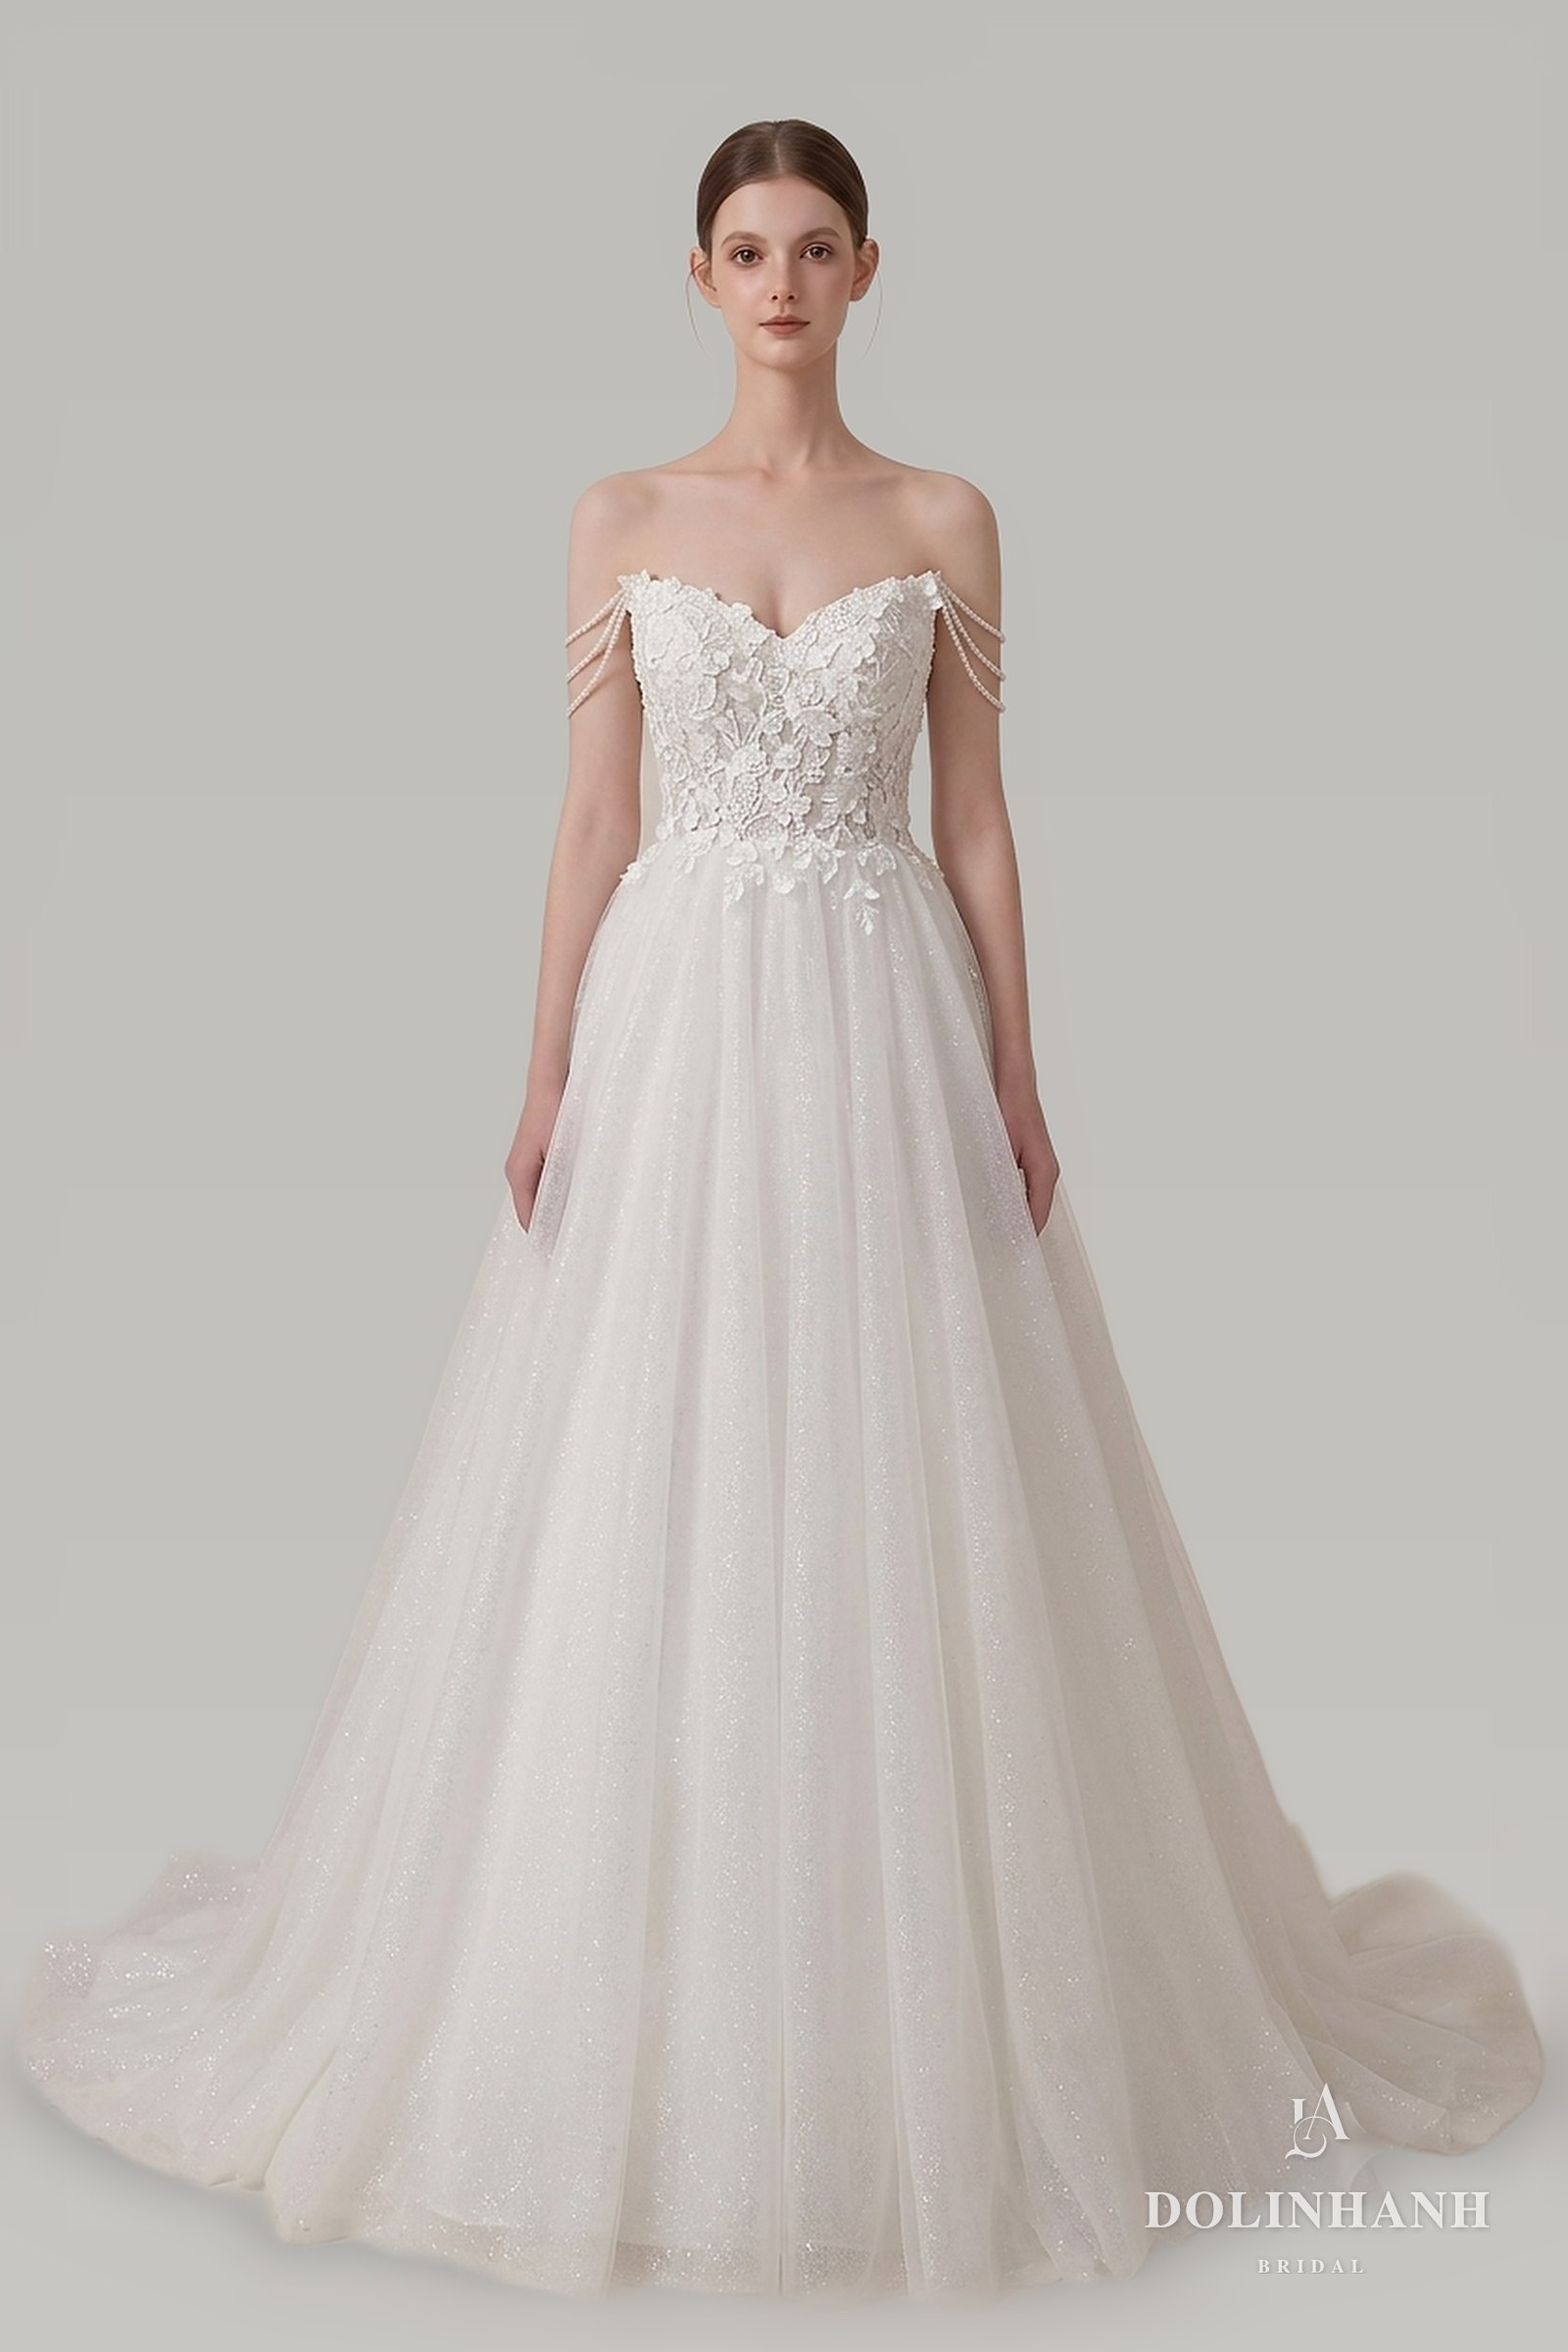
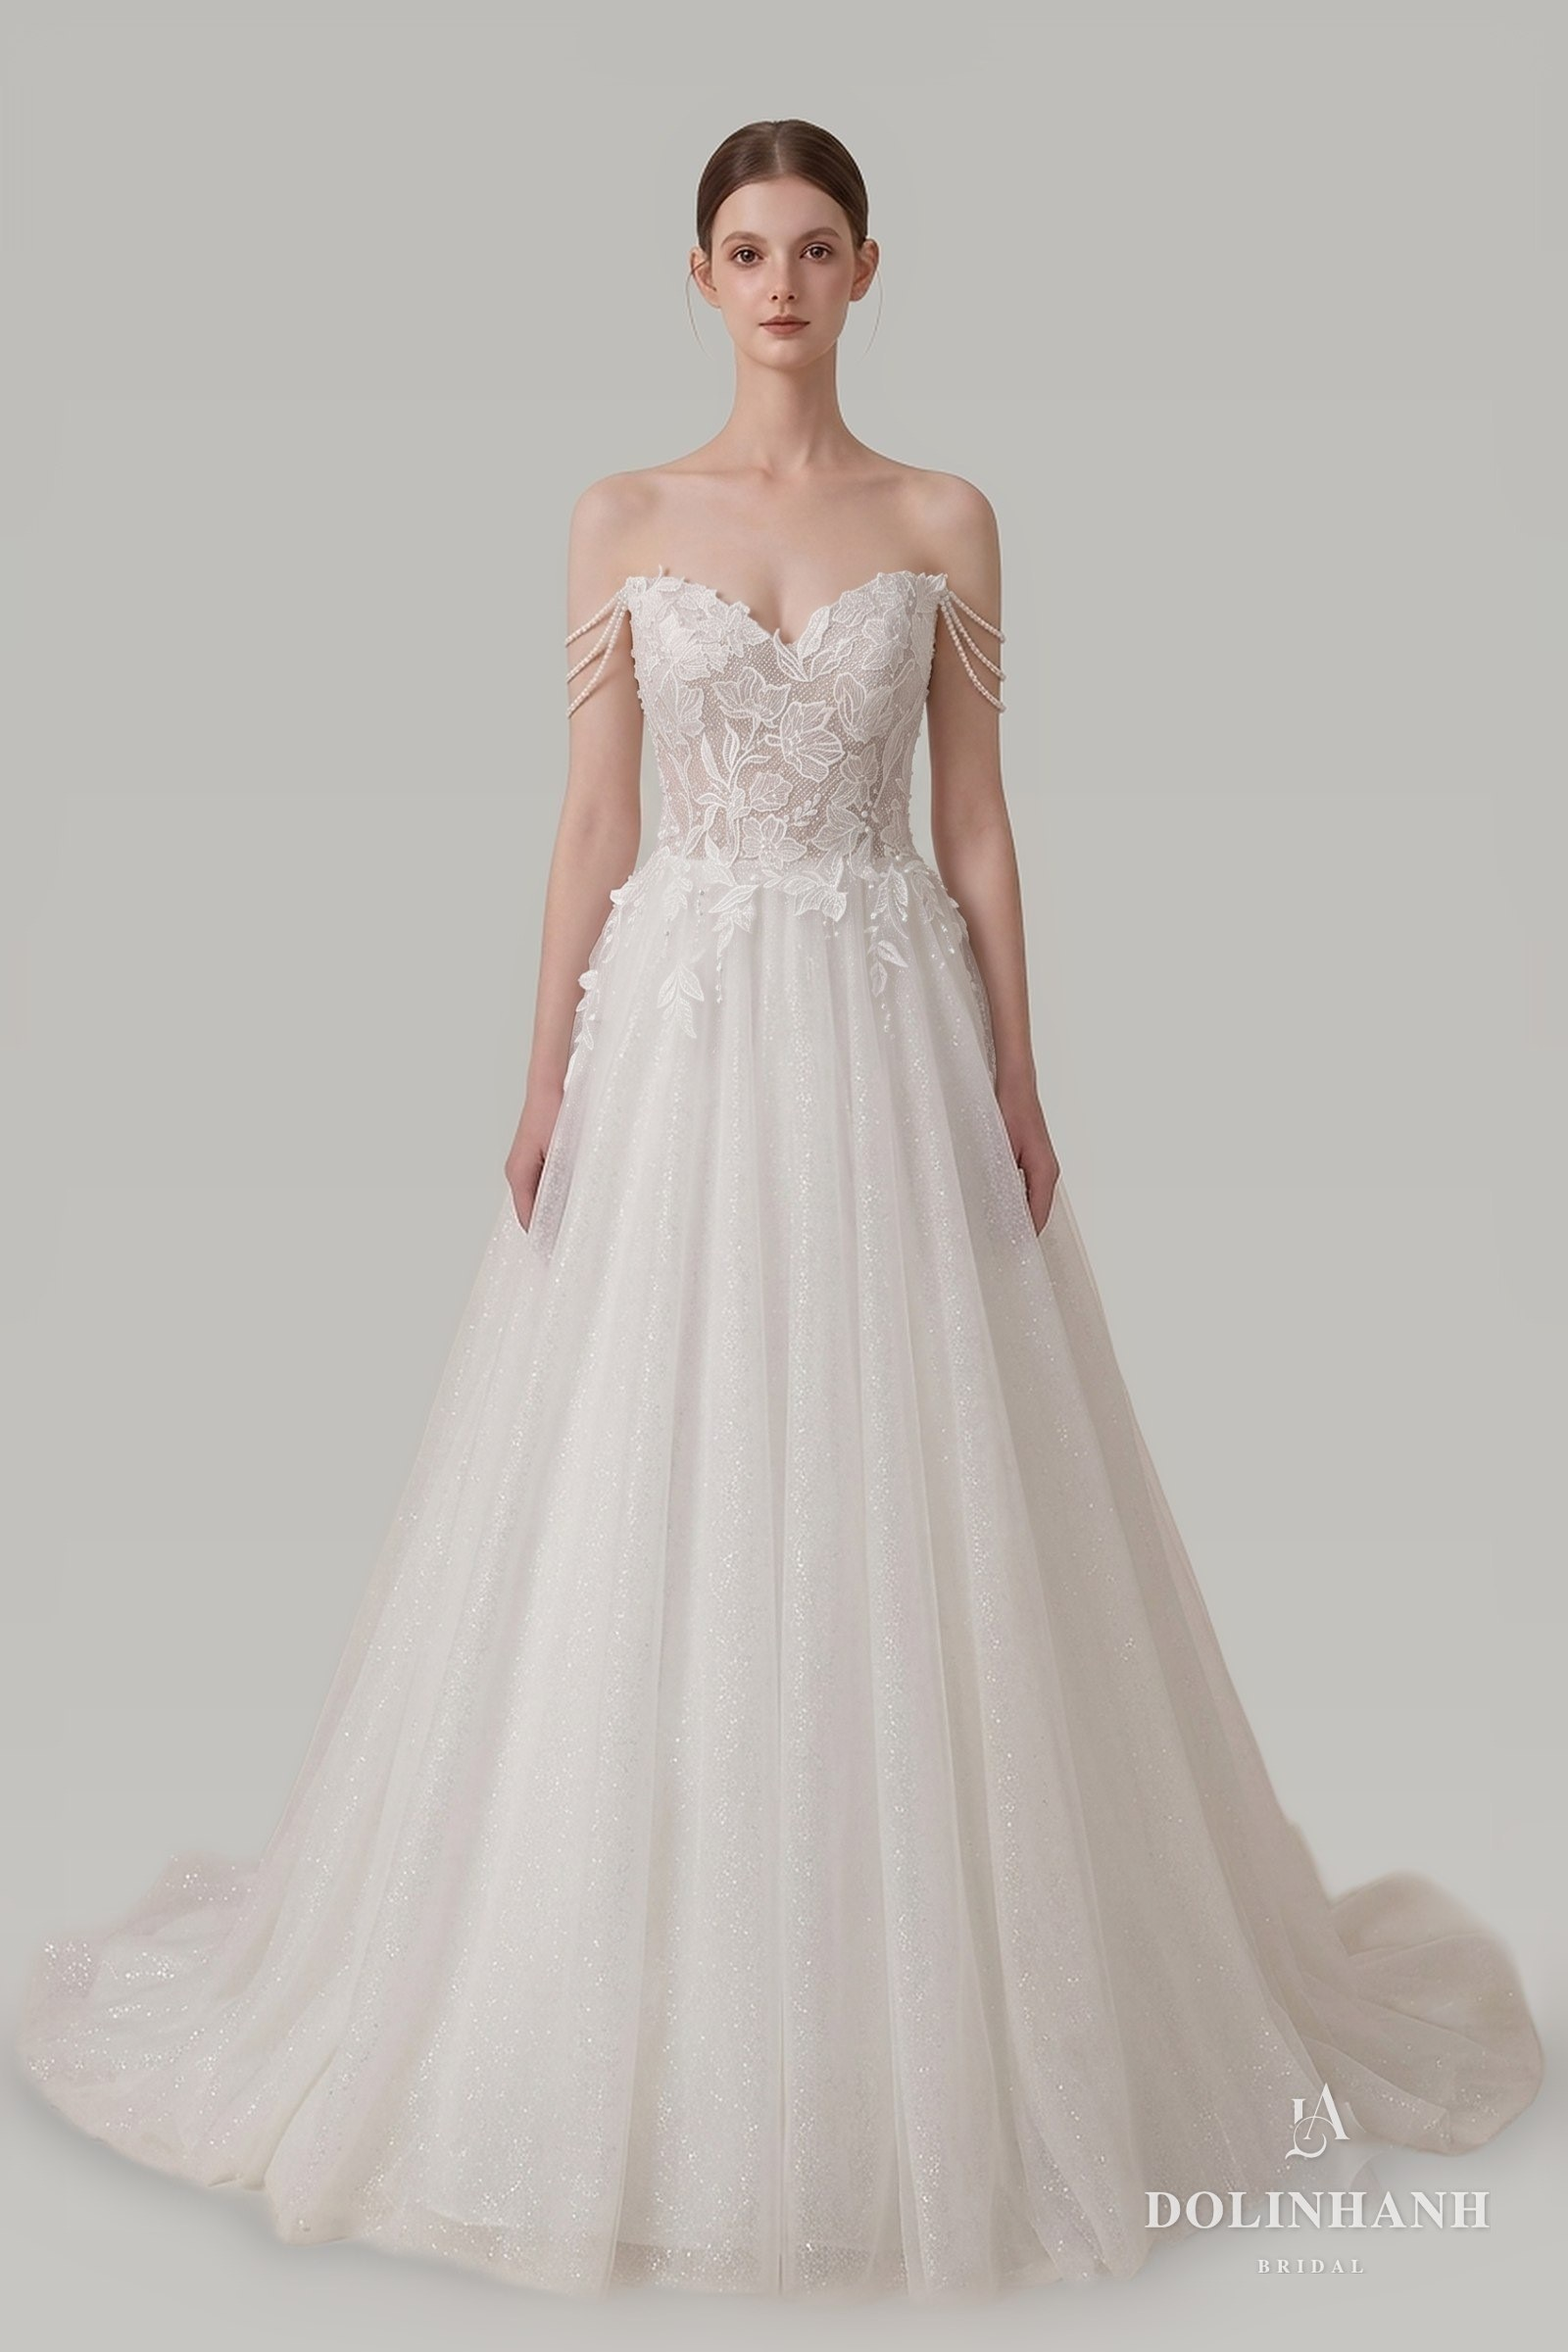
MS 106 vẽ lại ren thân theo váy thật (V140, chị Linh duyệt 18/10)

Changed region(s): [[0.375, 0.2188, 0.625, 0.4062], [0.375, 0.375, 0.4062, 0.4062], [0.3438, 0.4062, 0.375, 0.4375]]

diff --git a/bo-suu-tap.html b/bo-suu-tap.html
@@ -1112,7 +1112,7 @@ src="https://www.facebook.com/tr?id=1358640082651240&ev=PageView&noscript=1"
         </figure>
         <figure data-dang="ballgown" data-mood="romantic" data-coso="hcm">
           <div class="sl-khung">
-            <div class="sl" data-img="anh/vay/ms106/01.jpg?v=3"></div>
+            <div class="sl" data-img="anh/vay/ms106/01.jpg?v=4"></div>
           </div>
           <figcaption><span class="kind" data-en="Dolinhanh Bridal" data-zh="Dolinhanh Bridal">Dolinhanh Bridal</span><span class="nm">MS 106</span><span class="de" data-en="Off-shoulder floral lace, full skirt" data-zh="一字肩花朵蕾丝，蓬松裙摆">Ren hoa trễ vai, tùng xoè</span><span class="gia">US$2,280</span></figcaption>
         </figure>
